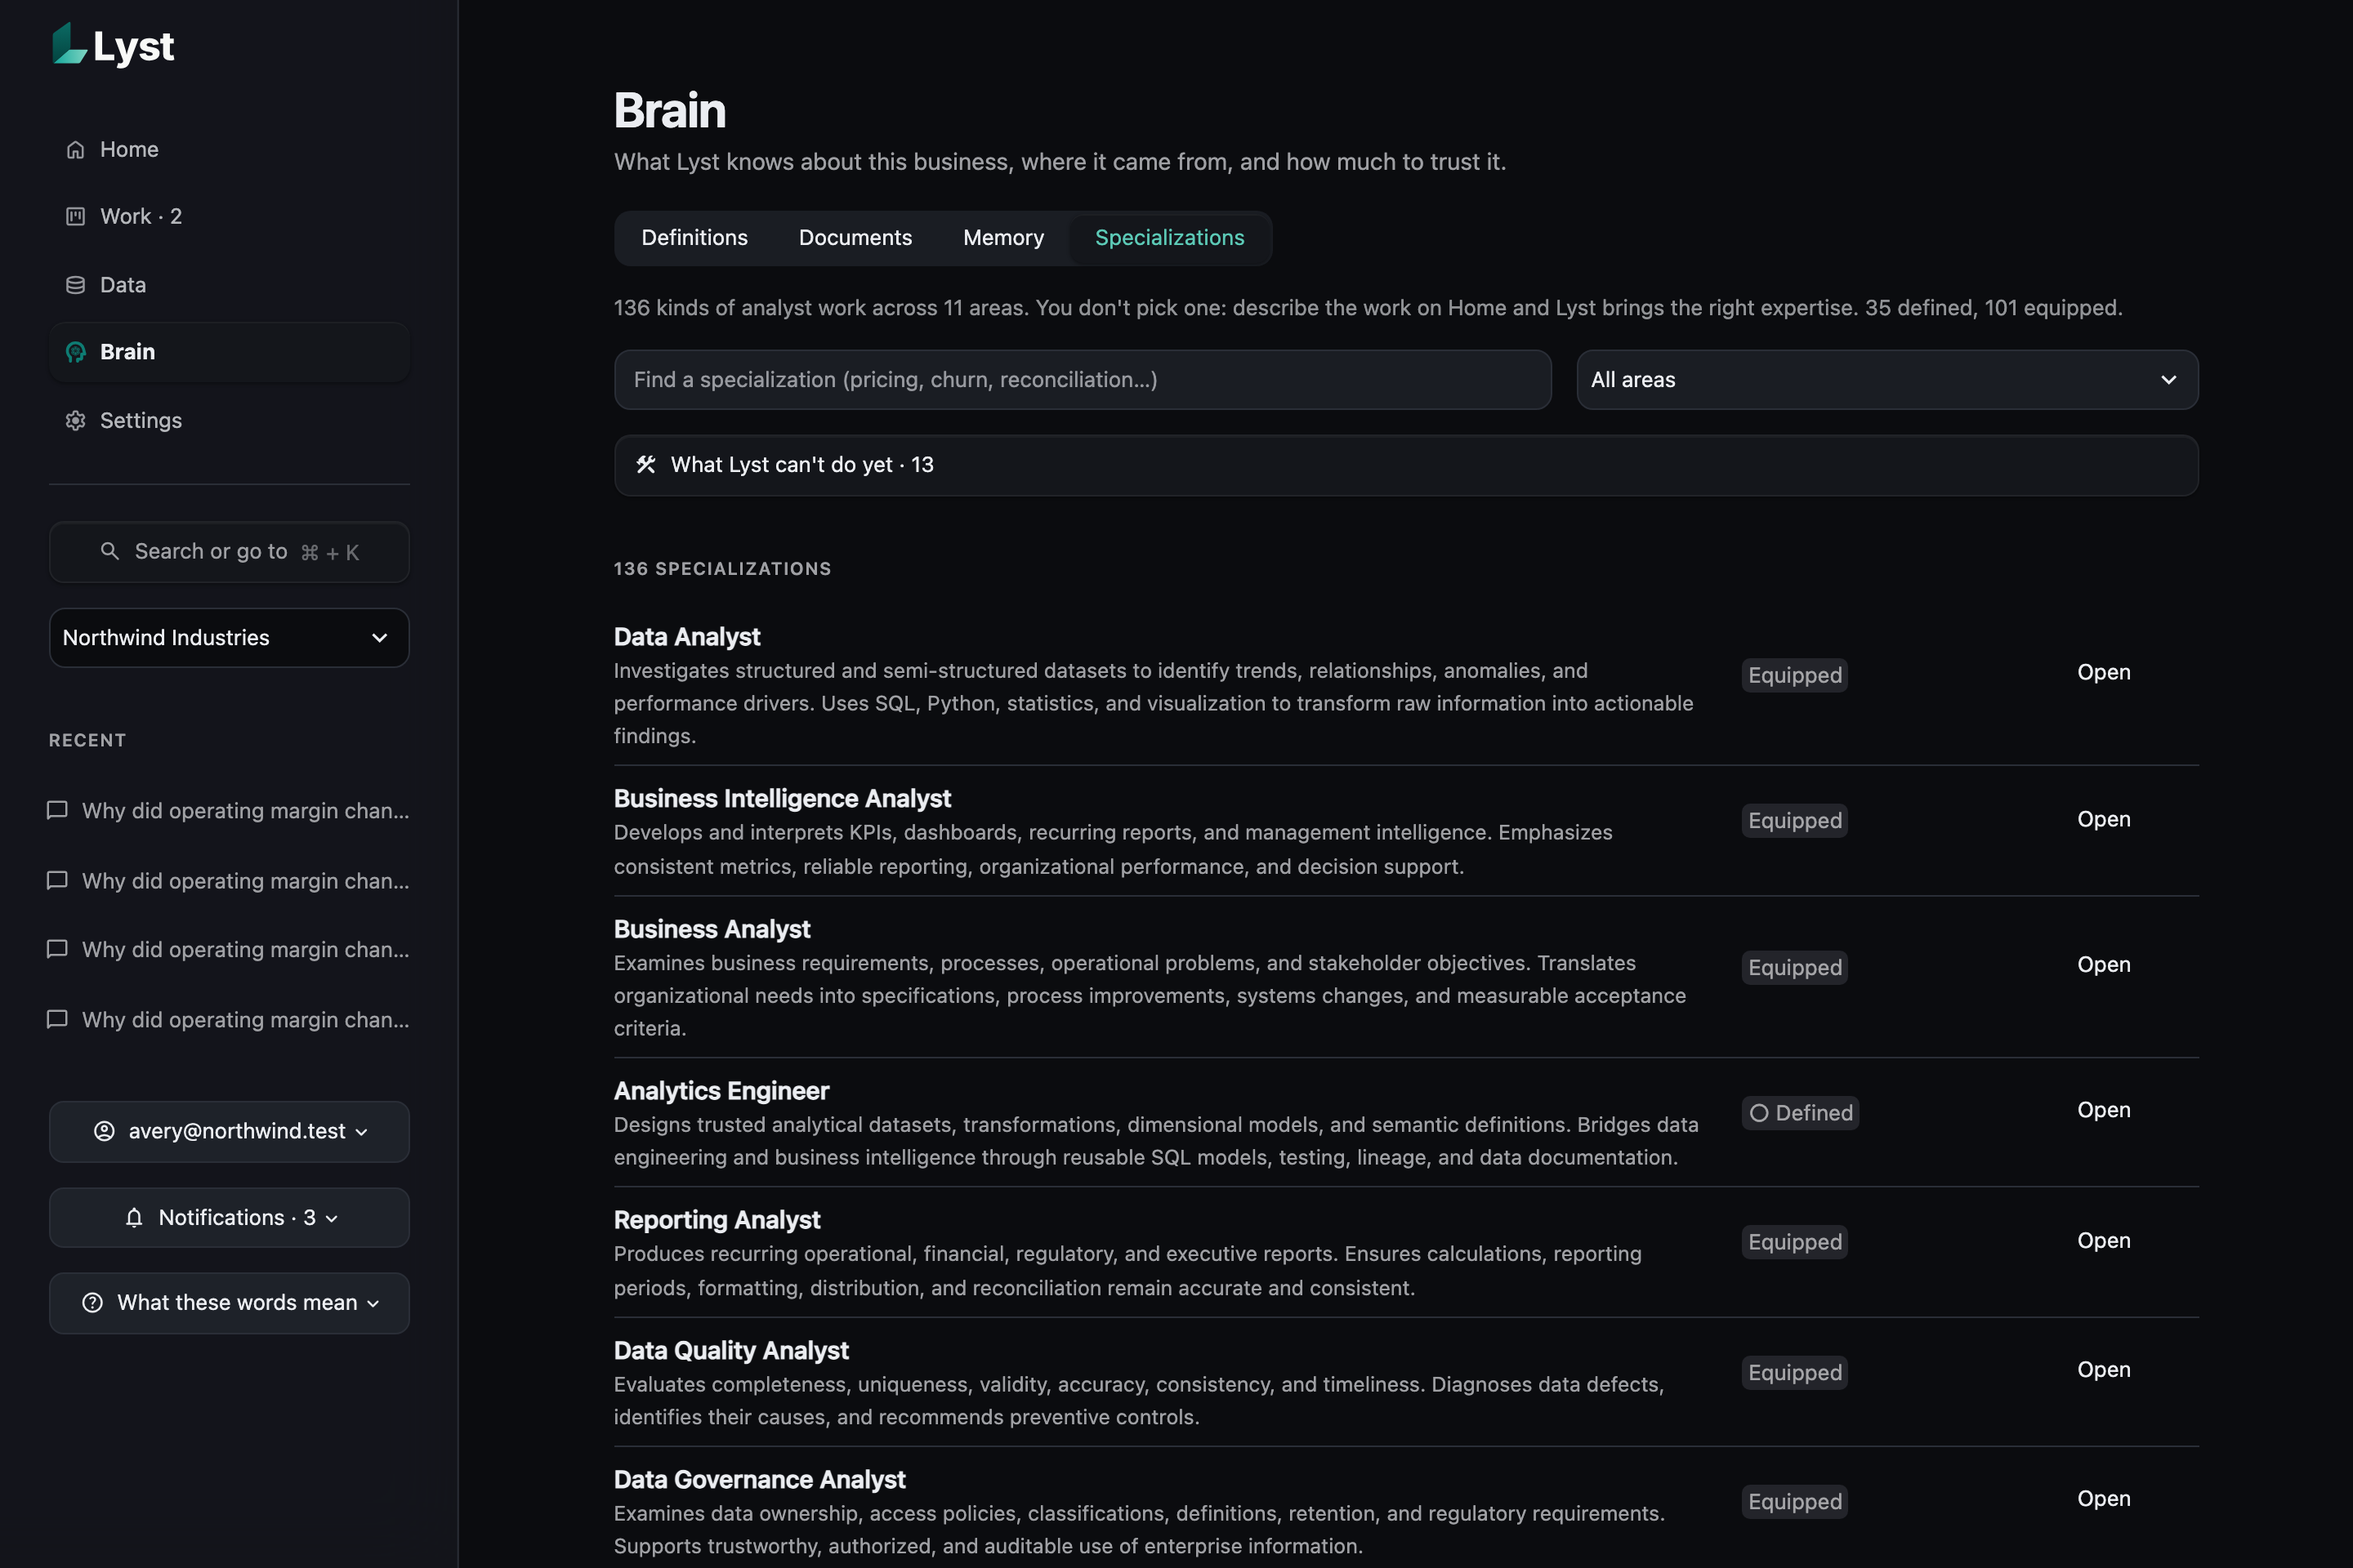
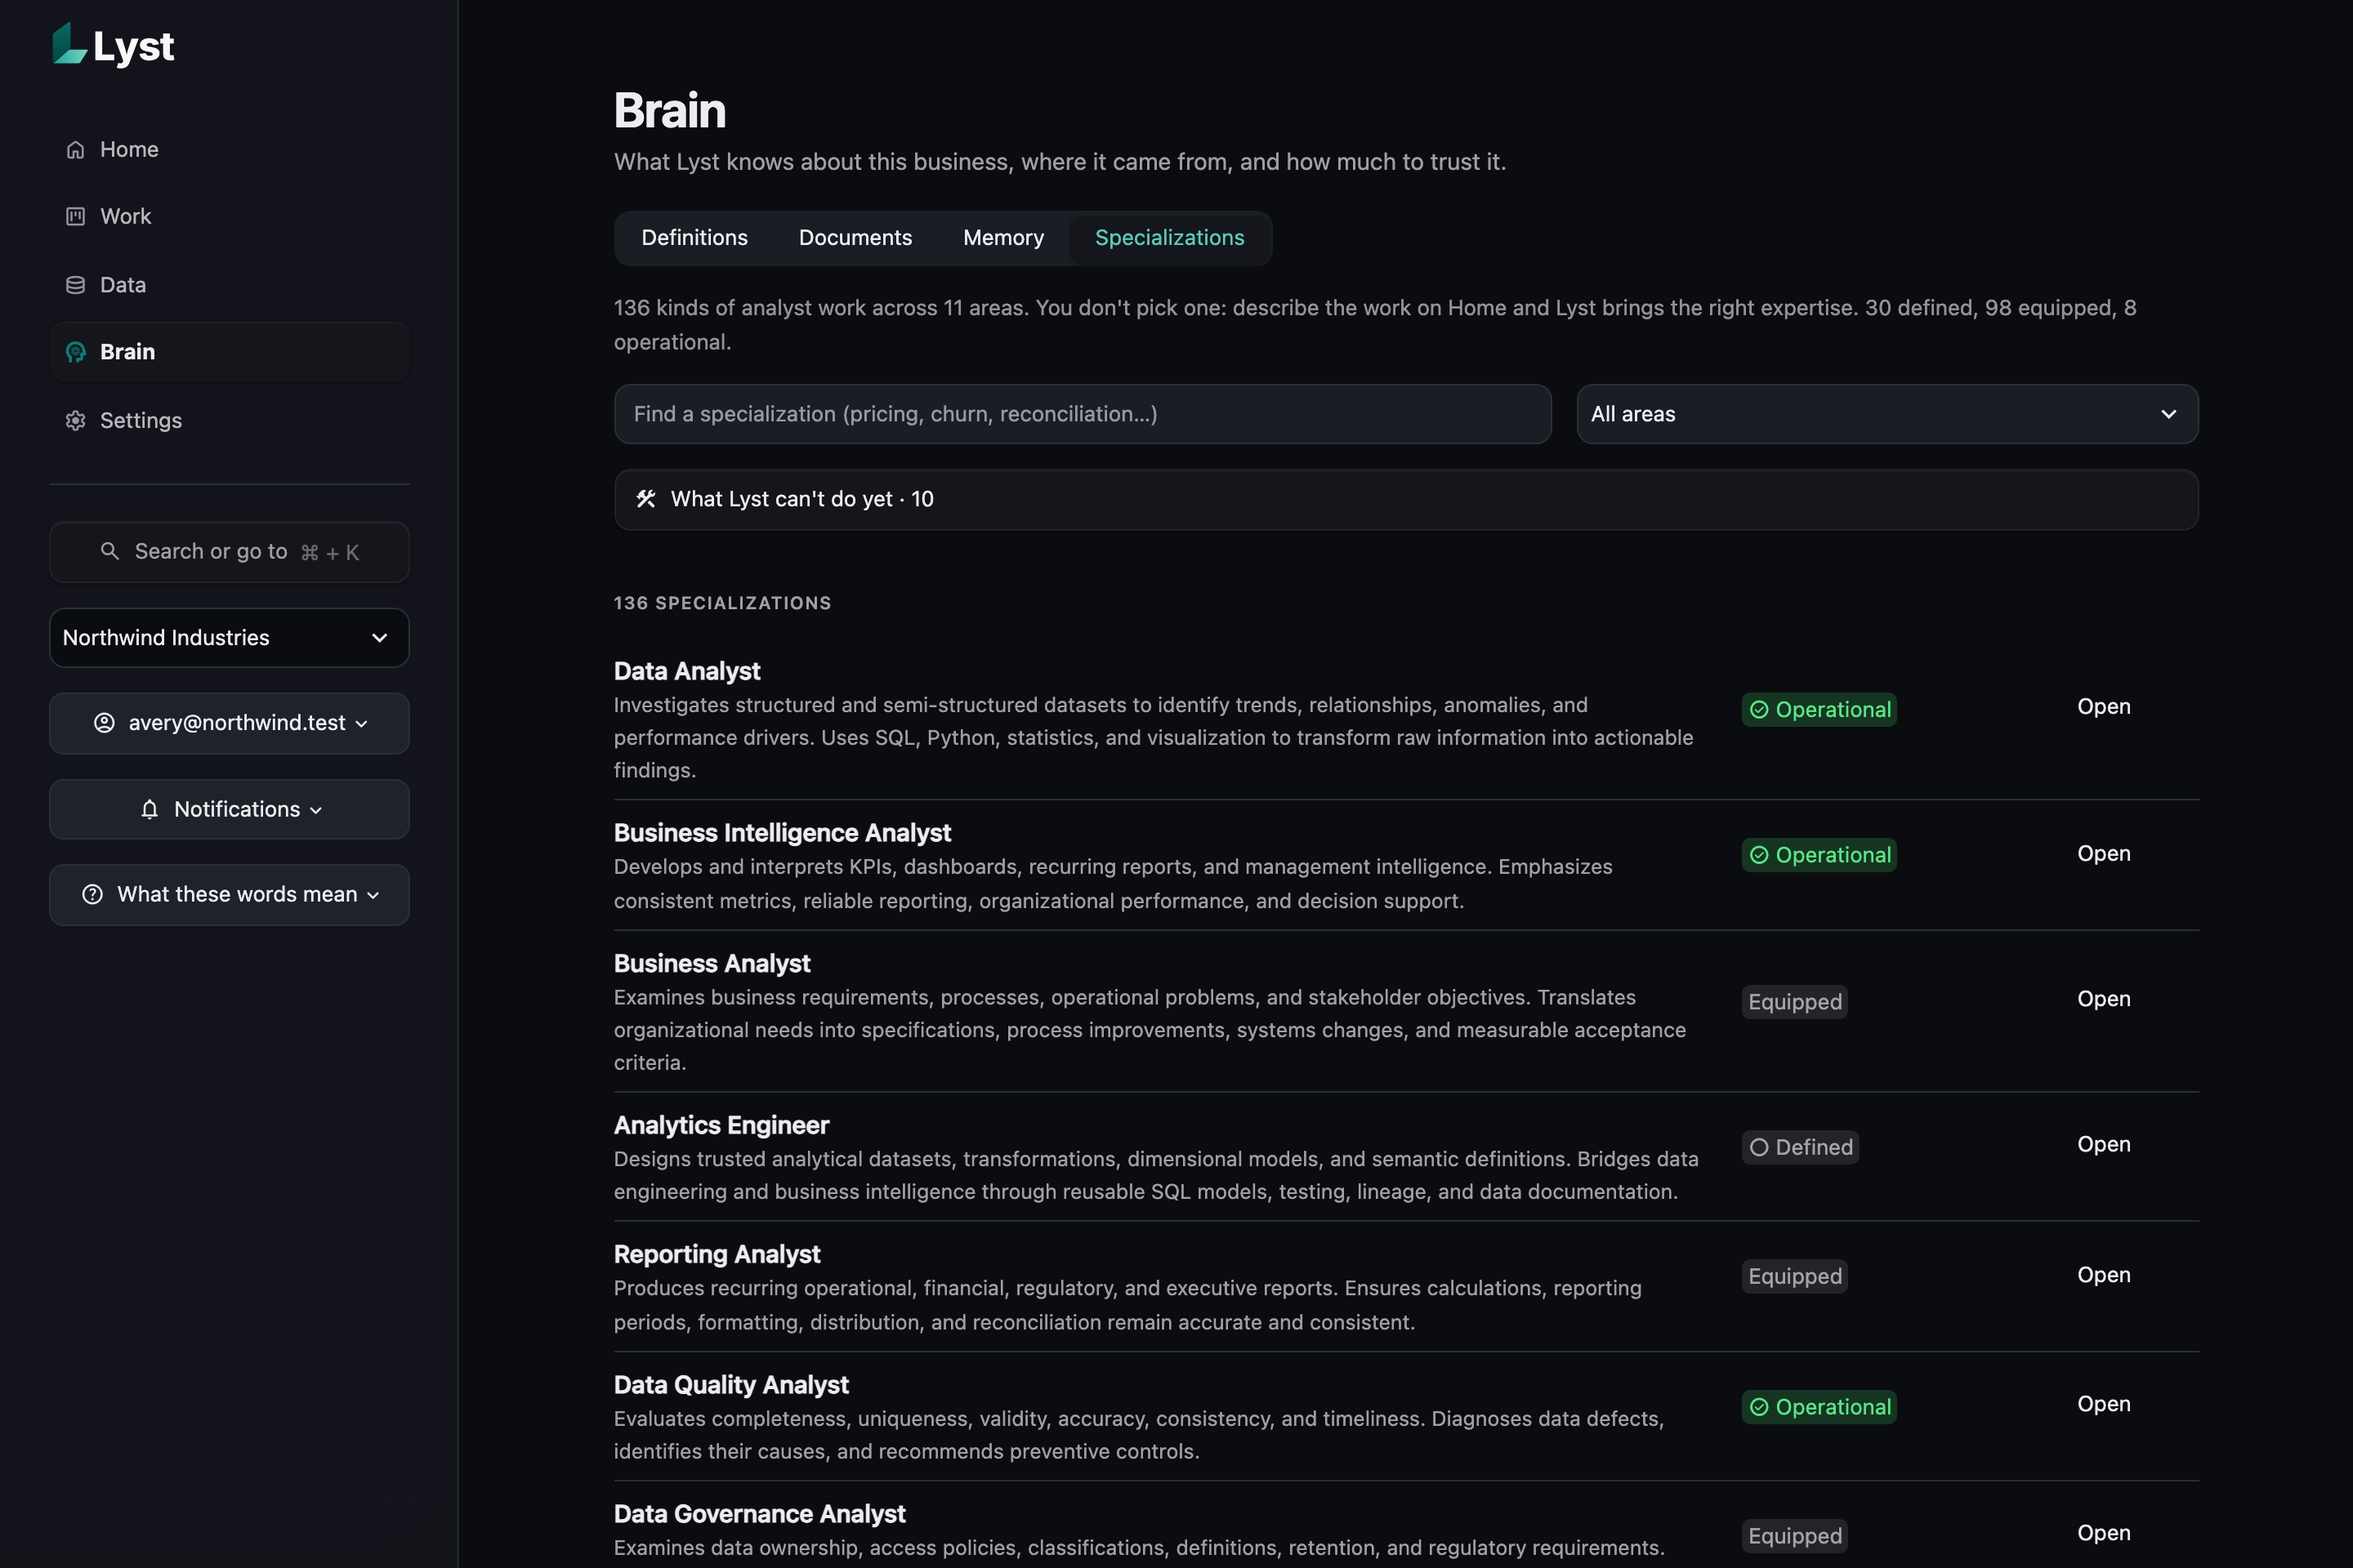
Website: 8 operational specializations, retaken Specialists view, and a quick start (#101, #104)

diff --git a/site/src/config/site.ts b/site/src/config/site.ts
@@ -71,7 +71,7 @@ export const stage =
         primaryCta: 'Learn more',
         status: 'In development',
         capabilityNote:
-          'Lyst is in active development. “Built” means implemented and tested in the private preview; nothing is generally released yet. Behind the one Analyst sit 136 specialist profiles, from FP&A to fraud detection: 101 are equipped with the methods they need and 35 are defined so far.',
+          'Lyst is in active development. “Built” means implemented and tested in the private preview; nothing is generally released yet. Behind the one Analyst sit 136 specialist profiles, from FP&A to fraud detection. 8 are proven operational on tasks with known answers, 98 are equipped with the methods they need and 30 are defined so far.',
         enterpriseNote:
           'Items marked Built are implemented and tested in the private preview. The rest are architectural design goals. None of this is a certification.',
         accessHeadline: 'Want to learn more?',
